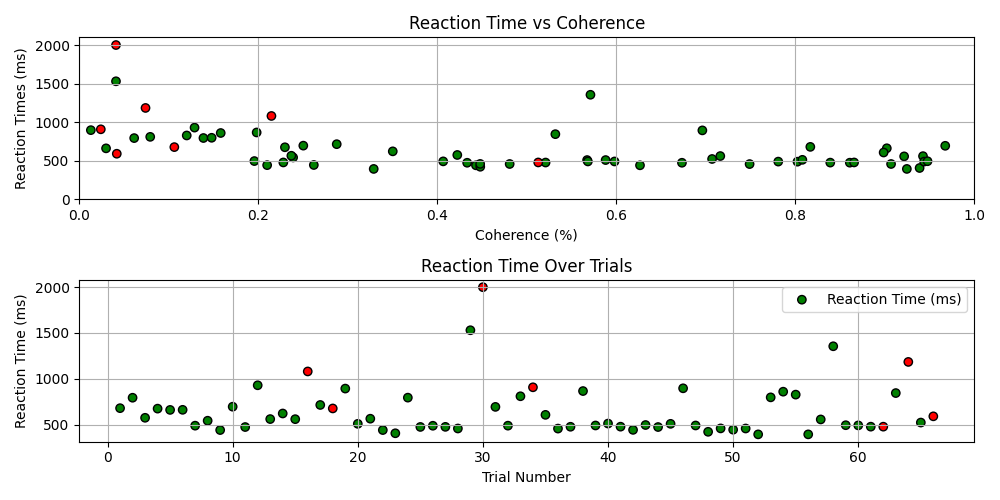
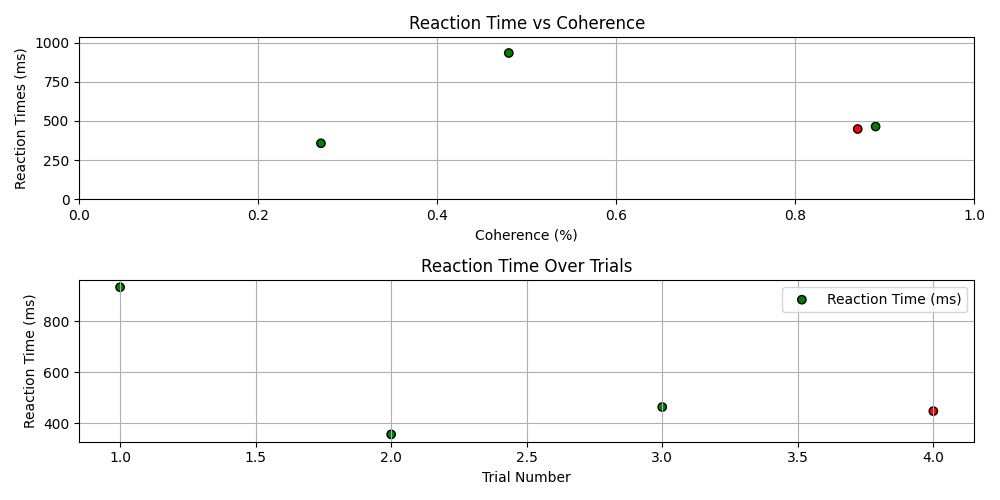
Adding dynamic plotting in results

diff --git a/app.py b/app.py
@@ -2,6 +2,9 @@ import json
 import os
 import random
 from flask import Flask, request, jsonify, render_template
+import matplotlib
+matplotlib.use('Agg')  # Use a non-GUI backend to prevent threading issues
+import matplotlib.pyplot as plt
 
 # Constants
 # Constants
@@ -44,6 +47,39 @@ def load_results():
                 return []
     return []
 
+# Generate desired plots
+def generate_plot():
+    results = load_results()
+    if not results:
+        return  # No data to plot
+    trials = list(range(1, len(results) + 1))
+    coherence = [r["coherence"] for r in results]  # Coherence level
+    reaction_times = [r["reaction_time"] for r in results]  # Reaction time
+    correct_guesses = [r["correct_guess"] for r in results]  # Boolean list of correctness
+    # Assign colors based on correctness
+    colors = ["green" if correct else "red" for correct in correct_guesses]
+    plt.figure(figsize=(10, 5))
+    # Scatter plot of Reaction Time vs Coherence (Green = Correct, Red = Incorrect)
+    plt.subplot(2, 1, 1)
+    plt.scatter(coherence, reaction_times, c=colors, edgecolors="black")
+    plt.xlabel("Coherence (%)")
+    plt.ylabel("Reaction Times (ms)")
+    plt.title("Reaction Time vs Coherence")
+    plt.ylim(0, max(reaction_times) + 100)  # Adjust y-limit dynamically
+    plt.xlim(0, 1)
+    plt.grid(True)
+    # Scatter plot of Reaction Time over Trials
+    plt.subplot(2, 1, 2)
+    plt.scatter(trials, reaction_times, c=colors, edgecolors="black", label="Reaction Time (ms)")
+    plt.xlabel("Trial Number")
+    plt.ylabel("Reaction Time (ms)")
+    plt.title("Reaction Time Over Trials")
+    plt.legend()
+    plt.grid(True)
+    plt.tight_layout()
+    plt.savefig("static/results_plot.png")
+    plt.close()
+
 # Start at the home screen
 @app.route('/')
 def home():
@@ -53,6 +89,7 @@ def home():
 @app.route('/results_page')
 def show_results():
     results = load_results()
+    generate_plot()  # Generate the plot before rendering
     return render_template('results.html', data=results, plot_file = PLOT_FILE)
 
 # Called from JS to get the coherence and direction for each trial
@@ -88,5 +125,5 @@ def submit_response():
 
 
 if __name__ == '__main__':
-    port = int(os.environ.get("PORT", 5000))  # Default to 5000 if PORT is not set, use 10000 when testing locally
+    port = int(os.environ.get("PORT", 10000))  # Default to 5000 if PORT is not set, use 10000 when testing locally
     app.run(host='0.0.0.0', port=port)
